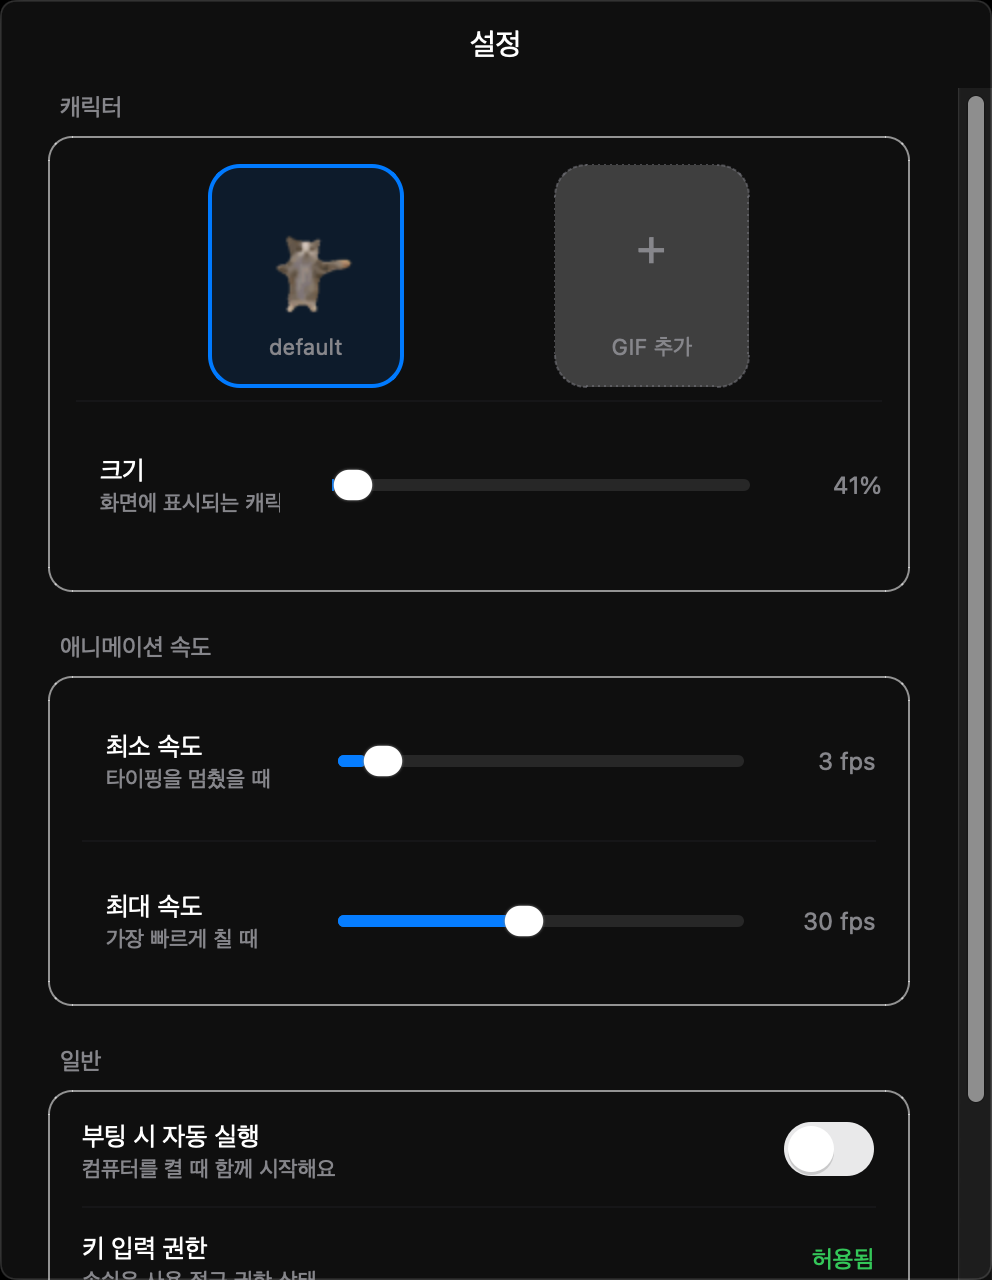
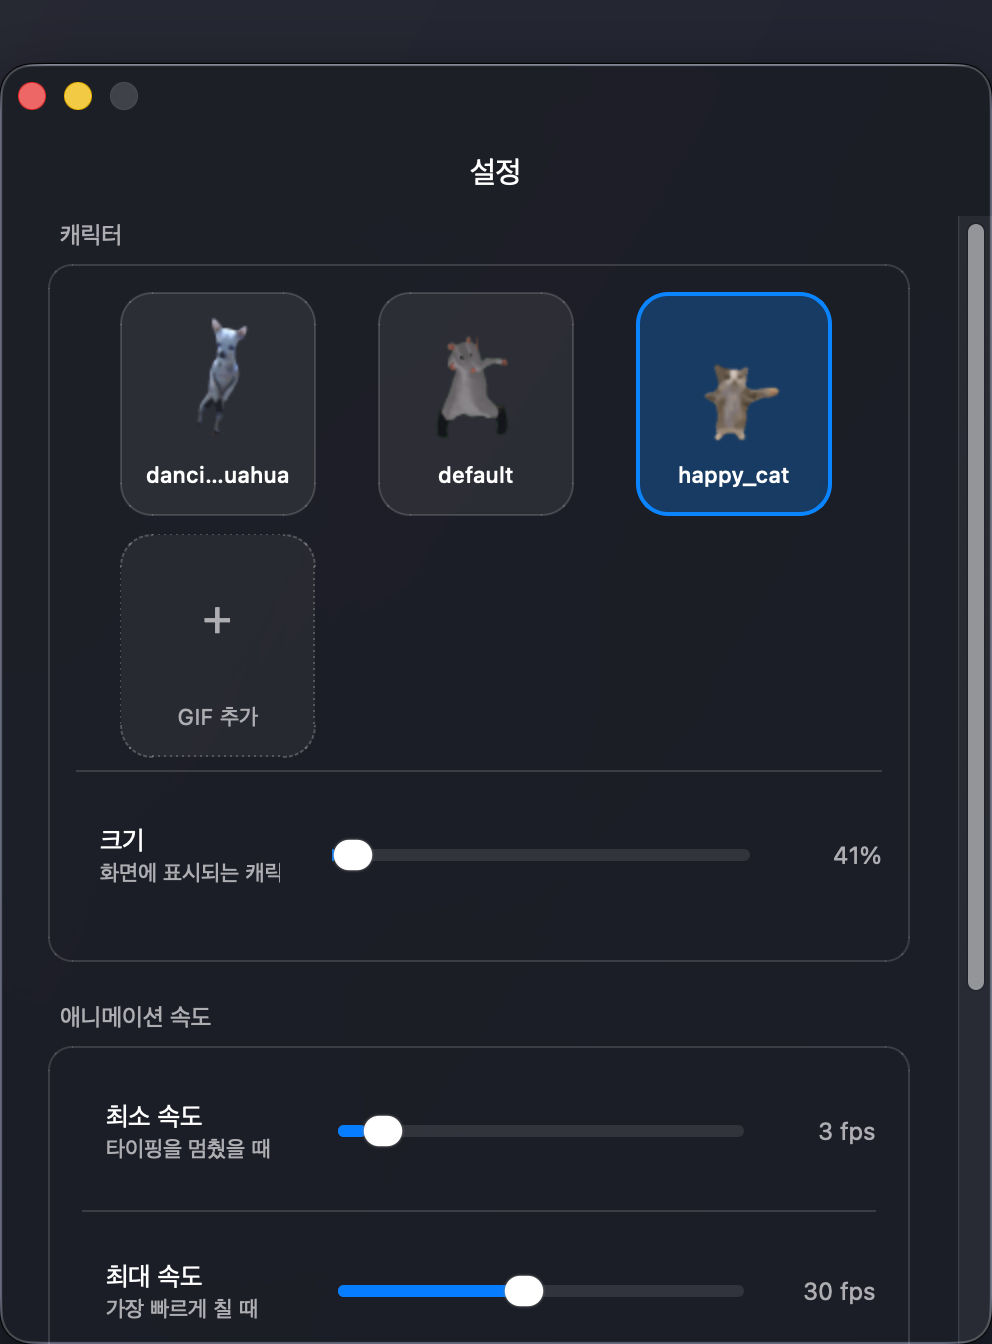
💄 시스템 라이트/다크 모드 대응 테마
- ui_style: 고정 라이트 팔레트를 colors()/stylesheet()로 전환,
  실행 중인 QApplication에서 시스템 외형을 해석
- widgets/settings_window/main: STYLESHEET/상수 → colors()·stylesheet() 사용
- settings_window: 캐릭터 카드 이름을 가운데 생략 처리(ElideMiddle)하고
  전체 이름은 툴팁으로 노출
- 스크린샷 갱신

diff --git a/app/ui_style.py b/app/ui_style.py
@@ -1,34 +1,88 @@
-"""Shared palette and a light stylesheet.
+"""Shared palette and stylesheet, adapted to the system light/dark appearance.
 
-The window background is real macOS Tahoe "Liquid Glass" supplied by
-pyqt-liquidglass, so Qt controls (buttons, sliders, scrollbars) are left
-to render with their native macOS style -- we only style text labels and
-the subtle grouped "cards".
+The window background is a real native translucent material (macOS Liquid
+Glass / Windows Mica), so Qt controls are left to render natively -- we only
+style text labels and the subtle grouped "cards". Those few colours have to
+follow the system appearance: a fixed light palette is invisible on a dark
+glass window. ``colors()`` resolves them at call time -- it needs a running
+QApplication, so it cannot be done at import time.
 """
 
-TEXT = "#1D1D1F"
-TEXT_SECONDARY = "#86868B"
-ACCENT = "#007AFF"
+from PyQt6.QtCore import Qt
+from PyQt6.QtGui import QGuiApplication
+
+# Saturated accent colours -- legible on both light and dark glass.
+ACCENT = "#0A84FF"
 SWITCH_ON = "#34C759"
-DANGER = "#FF3B30"
-WARNING = "#FF9500"
+DANGER = "#FF453A"
+WARNING = "#FF9F0A"
 
-DIVIDER = "rgba(60,60,67,0.16)"
-CARD_BG = "rgba(255,255,255,0.42)"
-CARD_BORDER = "rgba(255,255,255,0.55)"
+_LIGHT = {
+    "text_secondary": "#86868B",
+    "divider": "rgba(60,60,67,0.16)",
+    "card_bg": "rgba(255,255,255,0.42)",
+    "card_border": "rgba(255,255,255,0.55)",
+    "tile_bg": "rgba(255,255,255,0.34)",
+    "tile_border": "rgba(255,255,255,0.60)",
+    "tile_hover": "rgba(255,255,255,0.55)",
+    "tile_selected_bg": "rgba(10,132,255,0.14)",
+    "upload_bg": "rgba(255,255,255,0.22)",
+    "upload_border": "rgba(120,120,128,0.55)",
+    "upload_hover": "rgba(255,255,255,0.42)",
+}
 
-STYLESHEET = f"""
+_DARK = {
+    "text_secondary": "#AEAEB2",
+    "divider": "rgba(255,255,255,0.14)",
+    "card_bg": "rgba(255,255,255,0.07)",
+    "card_border": "rgba(255,255,255,0.14)",
+    "tile_bg": "rgba(255,255,255,0.07)",
+    "tile_border": "rgba(255,255,255,0.16)",
+    "tile_hover": "rgba(255,255,255,0.14)",
+    "tile_selected_bg": "rgba(10,132,255,0.28)",
+    "upload_bg": "rgba(255,255,255,0.05)",
+    "upload_border": "rgba(255,255,255,0.22)",
+    "upload_hover": "rgba(255,255,255,0.11)",
+}
+
+
+def is_dark() -> bool:
+    """Whether the system is currently in dark mode (False if undeterminable)."""
+    app = QGuiApplication.instance()
+    if app is None:
+        return False
+    try:
+        return app.styleHints().colorScheme() == Qt.ColorScheme.Dark
+    except Exception:
+        return False
+
+
+def colors() -> dict[str, str]:
+    """Appearance-dependent colours for the current system theme."""
+    return _DARK if is_dark() else _LIGHT
+
+
+def stylesheet() -> str:
+    """The global stylesheet, built for the current appearance.
+
+    Labels without an explicit ``color`` inherit the Qt palette, which already
+    follows the system appearance -- only the secondary (greyed) text needs an
+    explicit, appearance-aware colour.
+    """
+    c = colors()
+    return f"""
 QLabel[klass="hero"]     {{ font-size: 25px; font-weight: 700; }}
 QLabel[klass="title"]    {{ font-size: 15px; font-weight: 600; }}
-QLabel[klass="subtitle"] {{ font-size: 13px; color: {TEXT_SECONDARY}; }}
-QLabel[klass="section"]  {{ font-size: 12px; font-weight: 600; color: {TEXT_SECONDARY}; }}
+QLabel[klass="subtitle"] {{ font-size: 13px; color: {c['text_secondary']}; }}
+QLabel[klass="section"]  {{ font-size: 12px; font-weight: 600; color: {c['text_secondary']}; }}
 QLabel[klass="row"]      {{ font-size: 13px; font-weight: 500; }}
-QLabel[klass="rowsub"]   {{ font-size: 11px; color: {TEXT_SECONDARY}; }}
-QLabel[klass="value"]    {{ font-size: 12px; color: {TEXT_SECONDARY}; }}
+QLabel[klass="rowsub"]   {{ font-size: 11px; color: {c['text_secondary']}; }}
+QLabel[klass="value"]    {{ font-size: 12px; color: {c['text_secondary']}; }}
+QLabel[klass="cardname"] {{ font-size: 11px; font-weight: 500; }}
 
 QFrame[klass="card"] {{
-    background: {CARD_BG};
-    border: 1px solid {CARD_BORDER};
+    background: {c['card_bg']};
+    border: 1px solid {c['card_border']};
     border-radius: 12px;
 }}
 
@@ -40,7 +94,7 @@ QPushButton[klass="primary"] {{
     padding: 9px 20px; font-size: 13px; font-weight: 600;
 }}
 QPushButton[klass="primary"]:hover {{
-    background-color: #1A86FF; border-color: #1A86FF;
+    background-color: #339DFF; border-color: #339DFF;
 }}
 QPushButton[klass="primary"]:pressed {{
     background-color: #0062CC; border-color: #0062CC;
@@ -52,7 +106,7 @@ QPushButton[klass="danger"] {{
     padding: 9px 20px; font-size: 13px; font-weight: 600;
 }}
 QPushButton[klass="danger"]:hover {{
-    background-color: #FF564D; border-color: #FF564D;
+    background-color: #FF6961; border-color: #FF6961;
 }}
 QPushButton[klass="danger"]:pressed {{
     background-color: #D70015; border-color: #D70015;

diff --git a/app/settings_window.py b/app/settings_window.py
@@ -4,7 +4,7 @@ import sys
 from pathlib import Path
 
 from PyQt6.QtCore import Qt, pyqtSignal
-from PyQt6.QtGui import QPixmap
+from PyQt6.QtGui import QFontMetrics, QPixmap
 from PyQt6.QtWidgets import (
     QFileDialog,
     QFrame,
@@ -20,7 +20,7 @@ from PyQt6.QtWidgets import (
 )
 
 from .keyboard_monitor import macos_accessibility_trusted, open_accessibility_settings
-from .ui_style import ACCENT, DANGER, SWITCH_ON, WARNING
+from .ui_style import ACCENT, DANGER, SWITCH_ON, WARNING, colors
 from .widgets import GlassWindow, ToggleSwitch, divider
 
 _FILE_FILTER = "이미지 (*.gif *.png *.webp *.jpg *.jpeg *.bmp)"
@@ -51,16 +51,18 @@ def _character_card(
 ) -> _ClickCard:
     card = _ClickCard()
     card.setObjectName("charCard")
+    c = colors()
     if selected:
         card.setStyleSheet(
             "#charCard { border: 2px solid %s; border-radius: 16px;"
-            " background: rgba(0,122,255,0.12); }" % ACCENT
+            " background: %s; }" % (ACCENT, c["tile_selected_bg"])
         )
     else:
         card.setStyleSheet(
-            "#charCard { border: 1px solid rgba(255,255,255,0.5);"
-            " border-radius: 16px; background: rgba(255,255,255,0.32); }"
-            "#charCard:hover { background: rgba(255,255,255,0.5); }"
+            "#charCard { border: 1px solid %s;"
+            " border-radius: 16px; background: %s; }"
+            "#charCard:hover { background: %s; }"
+            % (c["tile_border"], c["tile_bg"], c["tile_hover"])
         )
     lay = QVBoxLayout(card)
     lay.setContentsMargins(6, 10, 6, 8)
@@ -79,9 +81,14 @@ def _character_card(
     )
     lay.addWidget(thumb, 0, Qt.AlignmentFlag.AlignHCenter)
 
-    name = QLabel(char_id)
-    name.setProperty("klass", "rowsub")
+    name = QLabel()
+    name.setProperty("klass", "cardname")
     name.setAlignment(Qt.AlignmentFlag.AlignCenter)
+    # The card is a fixed 98px wide -- middle-elide long ids so they don't
+    # spill past the edges; the full name stays available as a tooltip.
+    name.setText(QFontMetrics(name.font()).elidedText(
+        char_id, Qt.TextElideMode.ElideMiddle, 84))
+    name.setToolTip(char_id)
     lay.addWidget(name)
 
     if deletable:
@@ -108,17 +115,19 @@ def _character_card(
 def _upload_card() -> _ClickCard:
     card = _ClickCard()
     card.setObjectName("uploadCard")
+    c = colors()
     card.setStyleSheet(
-        "#uploadCard { border: 1px dashed rgba(120,120,128,0.55);"
-        " border-radius: 16px; background: rgba(255,255,255,0.20); }"
-        "#uploadCard:hover { background: rgba(255,255,255,0.42); }"
+        "#uploadCard { border: 1px dashed %s;"
+        " border-radius: 16px; background: %s; }"
+        "#uploadCard:hover { background: %s; }"
+        % (c["upload_border"], c["upload_bg"], c["upload_hover"])
     )
     lay = QVBoxLayout(card)
     lay.setContentsMargins(6, 10, 6, 8)
     lay.setSpacing(5)
 
     plus = QLabel("＋")
-    plus.setStyleSheet("font-size: 28px; color: #86868B;")
+    plus.setStyleSheet(f"font-size: 28px; color: {c['text_secondary']};")
     plus.setAlignment(Qt.AlignmentFlag.AlignCenter)
     plus.setFixedHeight(64)
     lay.addWidget(plus)

diff --git a/main.py b/main.py
@@ -19,7 +19,7 @@ from app.pet_window import PetWindow
 from app.settings_window import SettingsWindow
 from app.speed_model import SpeedModel
 from app.tray import Tray
-from app.ui_style import STYLESHEET
+from app.ui_style import stylesheet
 from app.welcome_window import WelcomeWindow
 
 POLL_INTERVAL_MS = 80
@@ -166,7 +166,7 @@ class TappyApp:
 def main() -> int:
     qapp = QApplication(sys.argv)
     qapp.setQuitOnLastWindowClosed(False)
-    qapp.setStyleSheet(STYLESHEET)
+    qapp.setStyleSheet(stylesheet())
     # App/Dock/taskbar icon when running from source (a built app/exe gets its
     # icon from Tappy.spec instead).
     logo = assets_dir() / "tappy_logo.png"

diff --git a/app/widgets.py b/app/widgets.py
@@ -22,7 +22,7 @@ from PyQt6.QtCore import (
 from PyQt6.QtGui import QColor, QPainter
 from PyQt6.QtWidgets import QFrame, QMainWindow, QVBoxLayout, QWidget
 
-from .ui_style import DIVIDER, SWITCH_ON
+from .ui_style import SWITCH_ON, colors
 
 
 def _lerp(c1: QColor, c2: QColor, t: float) -> QColor:
@@ -176,5 +176,5 @@ class ToggleSwitch(QWidget):
 def divider() -> QFrame:
     line = QFrame()
     line.setFixedHeight(1)
-    line.setStyleSheet(f"background: {DIVIDER}; border: none;")
+    line.setStyleSheet(f"background: {colors()['divider']}; border: none;")
     return line
